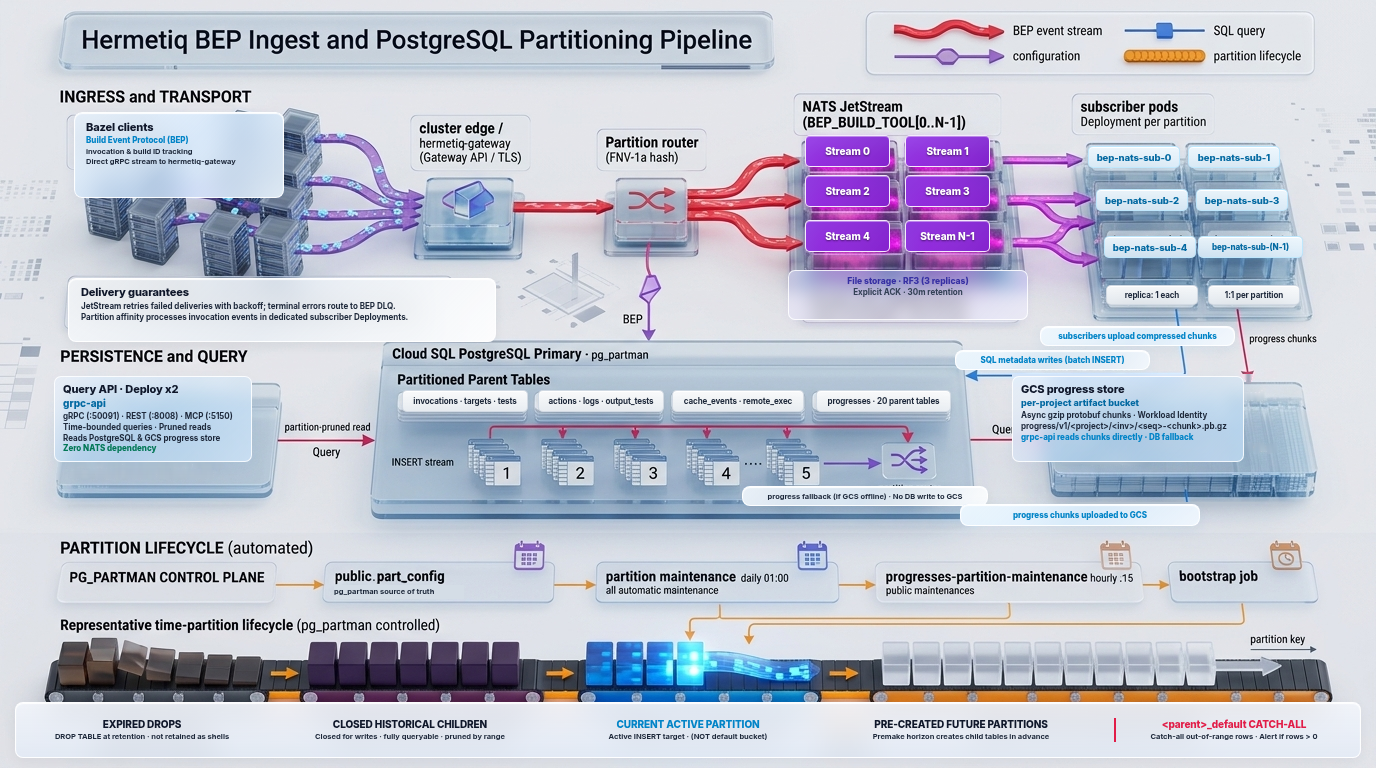
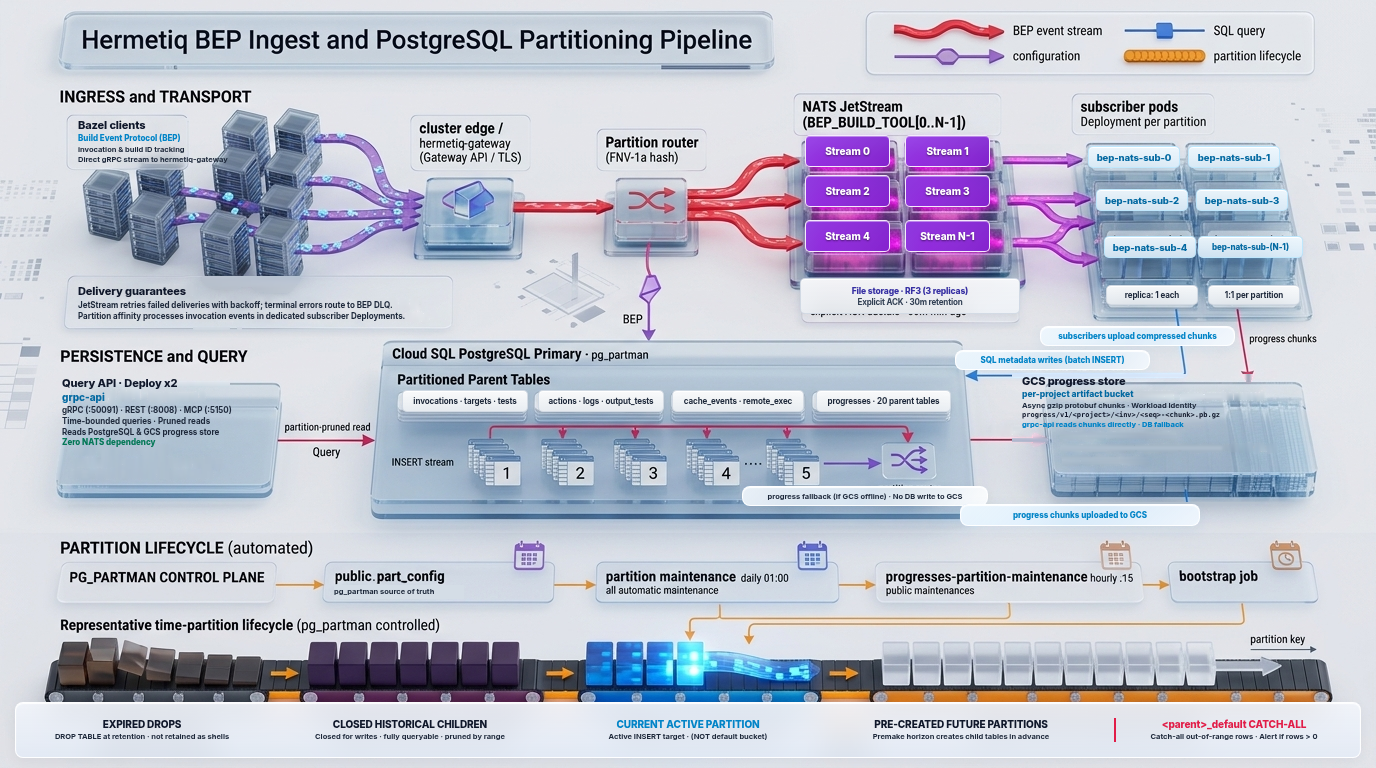
docs: place text directly in underlying 3D containers and eliminate redundant textboxes
- Place text for 'Kubernetes ClusterIP Services', 'OIDC Provider', 'Bazel clients', 'Delivery guarantees', 'Query API', and 'GCS progress store' directly inside the underlying 3D containers using .direct-card (transparent background, no border, no drop shadow).
- Remove redundant overlay textboxes that created a 'textbox on top of a textbox' effect.
- Inpaint baked-in AI text inside container bounds in prepare_clean_base_images() so underlying 3D beveled glass, reflections, and vertical partition ribs remain fully visible.
- Update AGENTS.md documenting the direct container placement design principle.

diff --git a/scripts/generate_diagrams.py b/scripts/generate_diagrams.py
@@ -5,7 +5,7 @@ Using Frosted Glassmorphism Vector Overlay & Headless Chrome Rendering.
 
 Ensures 100% adherence to the 3-Pass Verification Framework:
   Pass 1: Architecture & Flow Correctness (Issue #31 & #111 invariants)
-  Pass 2: Visual Aesthetics & Bling (Layered frosted glass, textured blending, tight boxes)
+  Pass 2: Visual Aesthetics & Bling (Direct container text, no redundant textboxes, exposed 3D glass)
   Pass 3: Typography & Label Zero-Hallucination (Pixel-perfect vector typography)
 """
 
@@ -73,7 +73,7 @@ def inpaint_text_smooth(im, box, lum_threshold=185, blur_radius=1.8):
                         rx = min(right_xs)
                         nr, ng, nb = pixels[rx, y][:3]
                     else:
-                        nr, ng, nb = 220, 235, 245
+                        nr, ng, nb = 240, 245, 252
 
                     if len(pixels[x, y]) == 4:
                         pixels[x, y] = (nr, ng, nb, pixels[x, y][3])
@@ -141,7 +141,6 @@ def inpaint_gcs_hybrid(im, box=(1012, 374, 1285, 475)):
                         if 0 <= nx < w and 0 <= ny < h:
                             dilated[nx][ny] = True
 
-    # Ribs section (x >= 210 in crop) -> interpolate vertically
     for x in range(210, w):
         clean_ys = [y for y in range(h) if not dilated[x][y]]
         if clean_ys:
@@ -163,7 +162,6 @@ def inpaint_gcs_hybrid(im, box=(1012, 374, 1285, 475)):
                         nr, ng, nb = pixels[x, min(bot_ys)][:3]
                     pixels[x, y] = (nr, ng, nb)
 
-    # Face section (x < 210) -> interpolate horizontally
     for y in range(h):
         clean_xs = [x for x in range(210) if not dilated[x][y]]
         if clean_xs:
@@ -200,27 +198,44 @@ def inpaint_gcs_hybrid(im, box=(1012, 374, 1285, 475)):
 
 def prepare_clean_base_images():
     """Pre-processes base images by dissolving baked-in text in overlay areas."""
+    # Prefer pristine fixed-images if present
+    d1_source = BASE_DIR / "fixed-images" / "hermetiq-architecture-ai.png"
+    if not d1_source.exists():
+        d1_source = BASE_DIR / "hermetiq-architecture-ai.png"
+
     # 1. Clean D1 base (hermetiq-architecture-ai.png)
-    d1_base = Image.open(BASE_DIR / "hermetiq-architecture-ai.png")
-    d1_base = inpaint_text_smooth(d1_base, (868, 130, 1106, 222), lum_threshold=185)
-    d1_base = inpaint_text_smooth(d1_base, (1174, 130, 1300, 222), lum_threshold=185)
-    d1_base = inpaint_text_smooth(d1_base, (1090, 185, 1175, 215), lum_threshold=185)
+    d1_base = Image.open(d1_source)
+    # Clean ClusterIP Services inside card: (872, 128, 1106, 222)
+    d1_base = inpaint_text_smooth(d1_base, (872, 128, 1106, 222), lum_threshold=185)
+    # Clean OIDC Provider inside card: (1165, 126, 1295, 196)
+    d1_base = inpaint_text_smooth(d1_base, (1165, 126, 1295, 196), lum_threshold=185)
     clean_d1_path = TMP_DIR / "clean_d1.png"
     d1_base.save(clean_d1_path)
 
     # 2. Clean D2 base (bep-ingest-architecture-ai.png)
     d2_base = Image.open(BASE_DIR / "bep-ingest-architecture-ai.png")
+    # Clean Bazel clients inside card (70, 118, 195, 164)
+    d2_base = inpaint_text_smooth(d2_base, (70, 118, 195, 164), lum_threshold=185)
+    # Clean Delivery guarantees inside card (74, 276, 485, 340)
+    d2_base = inpaint_text_smooth(d2_base, (74, 276, 485, 340), lum_threshold=185)
+    # Clean Query API slab
     d2_base = inpaint_text_smooth(d2_base, (50, 375, 230, 480), lum_threshold=185)
+    # Clean GCS hybrid (slab face + ribs)
     d2_base = inpaint_gcs_hybrid(d2_base)
+    # Clean query text above GCS arrow
+    d2_base = inpaint_text_smooth(d2_base, (970, 415, 1020, 436), lum_threshold=160)
+    # Clean bottom line
     d2_base = inpaint_text_smooth(d2_base, (960, 502, 1260, 526), lum_threshold=190)
     clean_d2_path = TMP_DIR / "clean_d2.png"
     d2_base.save(clean_d2_path)
 
     # 3. Clean D3 base (bb-architecture-ai.png)
     d3_base = Image.open(BASE_DIR / "bb-architecture-ai.png")
-    d3_base = inpaint_text_smooth(d3_base, (868, 130, 1106, 222), lum_threshold=185)
-    d3_base = inpaint_text_smooth(d3_base, (1174, 130, 1300, 222), lum_threshold=185)
-    d3_base = inpaint_text_smooth(d3_base, (1090, 185, 1175, 215), lum_threshold=185)
+    # Patch clean OIDC region from d1 to remove any faint text
+    oidc_patch = d1_base.crop((1080, 100, 1310, 230))
+    d3_base.paste(oidc_patch, (1080, 100))
+    # Inpaint ClusterIP on D3
+    d3_base = inpaint_text_smooth(d3_base, (872, 128, 1106, 222), lum_threshold=185)
     clean_d3_path = TMP_DIR / "clean_d3.png"
     d3_base.save(clean_d3_path)
 
@@ -249,36 +264,13 @@ SHARED_CSS = """
     z-index: 1;
   }
 
-  /* High-Transparency Layered Frosted Glass: Underneath 3D Plate & Geometry Shines Through */
-  .glass-ice-trans {
+  /* Direct Container Text - Placed directly inside underlying 3D container with NO overlay textbox */
+  .direct-card {
     position: absolute;
     z-index: 10;
-    background: linear-gradient(135deg, rgba(230, 242, 255, 0.45) 0%, rgba(210, 230, 255, 0.28) 50%, rgba(235, 245, 255, 0.48) 100%);
-    backdrop-filter: blur(8px) saturate(180%);
-    -webkit-backdrop-filter: blur(8px) saturate(180%);
-    border: 1px solid rgba(255, 255, 255, 0.85);
-    border-radius: 7px;
-    box-shadow: 0 4px 12px rgba(30, 58, 138, 0.04);
-  }
-  .glass-violet-trans {
-    position: absolute;
-    z-index: 10;
-    background: linear-gradient(135deg, rgba(245, 240, 255, 0.45) 0%, rgba(232, 222, 255, 0.28) 50%, rgba(248, 242, 255, 0.48) 100%);
-    backdrop-filter: blur(8px) saturate(180%);
-    -webkit-backdrop-filter: blur(8px) saturate(180%);
-    border: 1px solid rgba(255, 255, 255, 0.85);
-    border-radius: 7px;
-    box-shadow: 0 4px 12px rgba(109, 40, 217, 0.04);
-  }
-  .glass-cyan-trans {
-    position: absolute;
-    z-index: 10;
-    background: linear-gradient(135deg, rgba(235, 246, 255, 0.45) 0%, rgba(215, 238, 255, 0.28) 50%, rgba(240, 248, 255, 0.48) 100%);
-    backdrop-filter: blur(8px) saturate(180%);
-    -webkit-backdrop-filter: blur(8px) saturate(180%);
-    border: 1px solid rgba(255, 255, 255, 0.85);
-    border-radius: 7px;
-    box-shadow: 0 4px 14px rgba(2, 132, 199, 0.04);
+    background: transparent;
+    border: none;
+    box-shadow: none;
   }
 
   /* Semantic Pill & Badge Overlays */
@@ -437,8 +429,8 @@ def build_d1_html(bg_path: Path) -> str:
   <div class="glass-pill" style="top: 159px; left: 601px; width: 220px; height: 24px; font-size: 8px; justify-content: flex-start; padding-left: 8px;">GRPCRoute · bep-cloud-grpc · api-cloud-grpc</div>
   <div class="glass-pill" style="top: 187px; left: 601px; width: 220px; height: 24px; font-size: 8px; justify-content: flex-start; padding-left: 8px;">HTTPRoute · api-web · dashboard · grafana · mcp</div>
 
-  <!-- Section 1: ClusterIP Services Box: Tight bounds, transparent glass -->
-  <div class="glass-ice-trans" style="top: 133px; left: 868px; width: 226px; height: 76px; padding: 5px 8px;">
+  <!-- Section 1: ClusterIP Services Box: Directly in native container, no textbox -->
+  <div class="direct-card" style="top: 136px; left: 882px; width: 220px;">
     <div class="card-title">Kubernetes ClusterIP Services</div>
     <div style="font-size: 8px; font-weight: 800; color: #3730a3; margin-top: 1px;">L4 Routing Only · No TLS Termination</div>
     <div class="card-sub" style="margin-top: 2px;">
@@ -448,11 +440,11 @@ def build_d1_html(bg_path: Path) -> str:
     </div>
   </div>
 
-  <!-- Section 1: OIDC Provider: Tight bounds, transparent glass -->
-  <div class="glass-violet-trans" style="top: 133px; left: 1176px; width: 122px; height: 76px; padding: 5px 6px; text-align: center;">
-    <div class="card-title">OIDC Provider</div>
-    <div style="font-size: 8px; font-weight: 800; color: #5b21b6; margin-top: 1px;">Auth & SSO (Control Plane)</div>
-    <div class="card-sub" style="font-size: 7.5px; margin-top: 2px;">
+  <!-- Section 1: OIDC Provider: Directly in native container, no textbox -->
+  <div class="direct-card" style="top: 136px; left: 1176px; width: 120px; text-align: center;">
+    <div class="card-title" style="text-align: center;">OIDC Provider</div>
+    <div style="font-size: 8px; font-weight: 800; color: #5b21b6; margin-top: 1px; text-align: center;">Auth & SSO (Control Plane)</div>
+    <div class="card-sub" style="font-size: 7.5px; margin-top: 2px; text-align: center;">
       OIDC & JWKS verification<br>
       Secures UI, Grafana, gRPC, MCP<br>
       <span style="font-weight: 800; color: #4338ca;">Decoupled from ingest</span>
@@ -514,8 +506,8 @@ def build_d2_html(bg_path: Path) -> str:
 <body>
   <img class="bg" src="{bg_path}">
 
-  <!-- 1. Bazel Clients -->
-  <div class="glass-ice" style="top: 112px; left: 74px; width: 210px; height: 86px; padding: 7px 11px;">
+  <!-- 1. Bazel Clients: Directly in native container, no textbox -->
+  <div class="direct-card" style="top: 118px; left: 78px; width: 195px;">
     <div class="card-title">Bazel clients</div>
     <div style="font-size: 8px; font-weight: 800; color: #0284c7; margin-top: 1px;">Build Event Protocol (BEP)</div>
     <div class="card-sub" style="font-size: 7.5px; margin-top: 2px;">
@@ -524,8 +516,8 @@ def build_d2_html(bg_path: Path) -> str:
     </div>
   </div>
 
-  <!-- 2. Delivery Guarantees -->
-  <div class="glass-slate" style="top: 278px; left: 68px; width: 428px; height: 64px; padding: 6px 12px;">
+  <!-- 2. Delivery Guarantees: Directly in native container, no textbox -->
+  <div class="direct-card" style="top: 284px; left: 78px; width: 415px;">
     <div class="card-title">Delivery guarantees</div>
     <div class="card-sub" style="font-size: 8px; line-height: 1.35; margin-top: 2px;">
       JetStream retries failed deliveries with backoff; terminal errors route to BEP DLQ.<br>
@@ -542,7 +534,7 @@ def build_d2_html(bg_path: Path) -> str:
   <div class="stream-tag" style="top: 220px; left: 905px; width: 85px; height: 32px;">Stream N-1</div>
 
   <!-- NATS footer -->
-  <div class="glass-violet-trans" style="top: 270px; left: 788px; width: 240px; height: 50px; padding: 5px 6px; text-align: center;">
+  <div class="glass-pill" style="top: 278px; left: 800px; width: 220px; height: 36px; text-align: center; flex-direction: column;">
     <div style="font-size: 8.5px; font-weight: 800; color: #3730a3;">File storage · RF3 (3 replicas)</div>
     <div style="font-size: 8px; font-weight: 700; color: #334155; margin-top: 1px;">Explicit ACK · 30m retention</div>
   </div>
@@ -565,8 +557,8 @@ def build_d2_html(bg_path: Path) -> str:
     <span style="font-size: 8px; font-weight: 800; color: #0284c7;">SQL metadata writes (batch INSERT)</span>
   </div>
 
-  <!-- 5. Query API: Tight bounds, transparent glass, shows 3D glass slab bevel -->
-  <div class="glass-cyan-trans" style="top: 376px; left: 54px; width: 198px; height: 86px; padding: 5px 8px;">
+  <!-- 5. Query API: Directly in native glass slab container, no textbox -->
+  <div class="direct-card" style="top: 376px; left: 62px; width: 195px;">
     <div class="card-title">Query API · Deploy x2</div>
     <div style="font-size: 10px; font-weight: 800; color: #0369a1; margin-top: 1px;">grpc-api</div>
     <div class="card-sub" style="margin-top: 2px;">
@@ -588,13 +580,13 @@ def build_d2_html(bg_path: Path) -> str:
     <span style="font-size: 7.5px; font-weight: 700; color: #1e293b;">progress fallback (if GCS offline) · No DB write to GCS</span>
   </div>
 
-  <!-- 7. GCS Progress Store: Tight bounds, transparent glass, vertical partition ribs fully exposed -->
-  <div class="glass-cyan-trans" style="top: 376px; left: 1012px; width: 232px; height: 86px; padding: 5px 8px;">
+  <!-- 7. GCS Progress Store: Directly on native glass slab, ribs fully visible, no textbox -->
+  <div class="direct-card" style="top: 374px; left: 1022px; width: 220px;">
     <div class="card-title">GCS progress store</div>
-    <div style="font-size: 9px; font-weight: 800; color: #0369a1; margin-top: 1px;">per-project artifact bucket</div>
-    <div class="card-sub" style="margin-top: 2px;">
+    <div style="font-size: 8.5px; font-weight: 800; color: #0369a1; margin-top: 1px;">per-project artifact bucket</div>
+    <div class="card-sub" style="font-size: 7.5px; line-height: 1.25; margin-top: 2px;">
       Async gzip protobuf chunks · Workload Identity<br>
-      progress/v1/&lt;project&gt;/&lt;inv&gt;/&lt;seq&gt;-&lt;chunk&gt;.pb.gz<br>
+      <code style="font-size: 7px; color: #0f172a;">progress/v1/&lt;project&gt;/&lt;inv&gt;/&lt;seq&gt;-&lt;chunk&gt;.pb.gz</code><br>
       <span style="font-weight: 800; color: #0284c7;">grpc-api reads chunks directly · DB fallback</span>
     </div>
   </div>
@@ -650,8 +642,8 @@ def build_d3_html(bg_path: Path) -> str:
 <body>
   <img class="bg" src="{bg_path}">
 
-  <!-- Section 1: ClusterIP Services: Tight bounds, transparent glass -->
-  <div class="glass-ice-trans" style="top: 133px; left: 868px; width: 226px; height: 76px; padding: 5px 8px;">
+  <!-- Section 1: ClusterIP Services: Directly in native container, no textbox -->
+  <div class="direct-card" style="top: 136px; left: 882px; width: 220px;">
     <div class="card-title">Kubernetes ClusterIP Services</div>
     <div style="font-size: 8px; font-weight: 800; color: #3730a3; margin-top: 1px;">L4 Routing Only · No TLS Termination</div>
     <div class="card-sub" style="margin-top: 2px;">
@@ -661,11 +653,11 @@ def build_d3_html(bg_path: Path) -> str:
     </div>
   </div>
 
-  <!-- Section 1: OIDC Provider: Tight bounds, transparent glass -->
-  <div class="glass-violet-trans" style="top: 133px; left: 1176px; width: 122px; height: 76px; padding: 5px 6px; text-align: center;">
-    <div class="card-title">OIDC Provider</div>
-    <div style="font-size: 8px; font-weight: 800; color: #5b21b6; margin-top: 1px;">Auth & SSO (Control Plane)</div>
-    <div class="card-sub" style="font-size: 7.5px; margin-top: 2px;">
+  <!-- Section 1: OIDC Provider: Directly in native container, no textbox -->
+  <div class="direct-card" style="top: 136px; left: 1176px; width: 120px; text-align: center;">
+    <div class="card-title" style="text-align: center;">OIDC Provider</div>
+    <div style="font-size: 8px; font-weight: 800; color: #5b21b6; margin-top: 1px; text-align: center;">Auth & SSO (Control Plane)</div>
+    <div class="card-sub" style="font-size: 7.5px; margin-top: 2px; text-align: center;">
       OIDC & JWKS verification<br>
       Secures UI, Grafana, gRPC, MCP<br>
       <span style="font-weight: 800; color: #4338ca;">App token verification</span>

diff --git a/AGENTS.md b/AGENTS.md
@@ -163,10 +163,12 @@ The repository provides an automated diagram generator script:
 #### How Future Agents Must Update Diagrams:
 1. Open `scripts/generate_diagrams.py`.
 2. Locate the relevant diagram template (`build_d1_html`, `build_d2_html`, or `build_d3_html`).
-3. Keep bounding boxes **tight** to the text actually used (e.g. `ClusterIP Services` at `226x76px`, `Query API` at `198x86px`, `GCS progress store` at `232x86px`). Never let textareas cover underlying 3D glass slabs, beveled edges, or storage partition ribs.
-4. Use transparent frosted glass tokens (`.glass-ice-trans`, `.glass-violet-trans`, `.glass-cyan-trans`) with subtle linear gradients (`rgba(..., 0.45) 0%`, `rgba(..., 0.28) 50%`) and `backdrop-filter: blur(8px) saturate(180%)` so underlying 3D base plates and lighting shine through.
+3. **The Direct Container Principle**: When a native 3D component (card, glass slab, pedestal) already exists in the base 3D plate (e.g. `Kubernetes ClusterIP Services`, `OIDC Provider`, `Bazel clients`, `Delivery guarantees`, `Query API`, `GCS progress store`), **NEVER overlay a redundant textbox with borders, background fill, or shadows on top of it**.
+   - Use `.direct-card` (`background: transparent; border: none; box-shadow: none; position: absolute;`) so the text is placed directly within the underlying 3D container.
+   - This eliminates the "textbox on top of a textbox" artifact, preserves the base image's beveled glass edges, reflections, and partition ribs, and lets the underlying 3D plate shine through.
+4. Keep overlays tight to the text actually used. Reserve pill overlays (`.glass-pill`, `.glass-sub-pill`) strictly for semantic badges (e.g. `bep-nats-sub-*`, route tags) and conduits.
 5. Apply **high-contrast, bold typography** (`font-weight: 700`–`800`) using dark slate (`#0f172a`, `#1e293b`) and dark saturated accents (`#3730a3`, `#5b21b6`, `#0369a1`, `#047857`). Strictly avoid faint, washed-out light gray (`#64748b`, `#475569`) at small font sizes.
-6. If modifying elements that overlay baked-in base image text, ensure `prepare_clean_base_images()` includes the inpainting coordinates so no ghost text shows through.
+6. When updating text inside native containers, inpaint baked-in AI text inside the container's interior bounding box in `prepare_clean_base_images()` before rendering the overlay text.
 7. Execute `python3 scripts/generate_diagrams.py`.
 8. Use `view_file` to inspect cropped regions of modified areas at 100% zoom.
 9. Verify against the 3-Pass Verification Framework (Pass 1, Pass 2, Pass 3).
